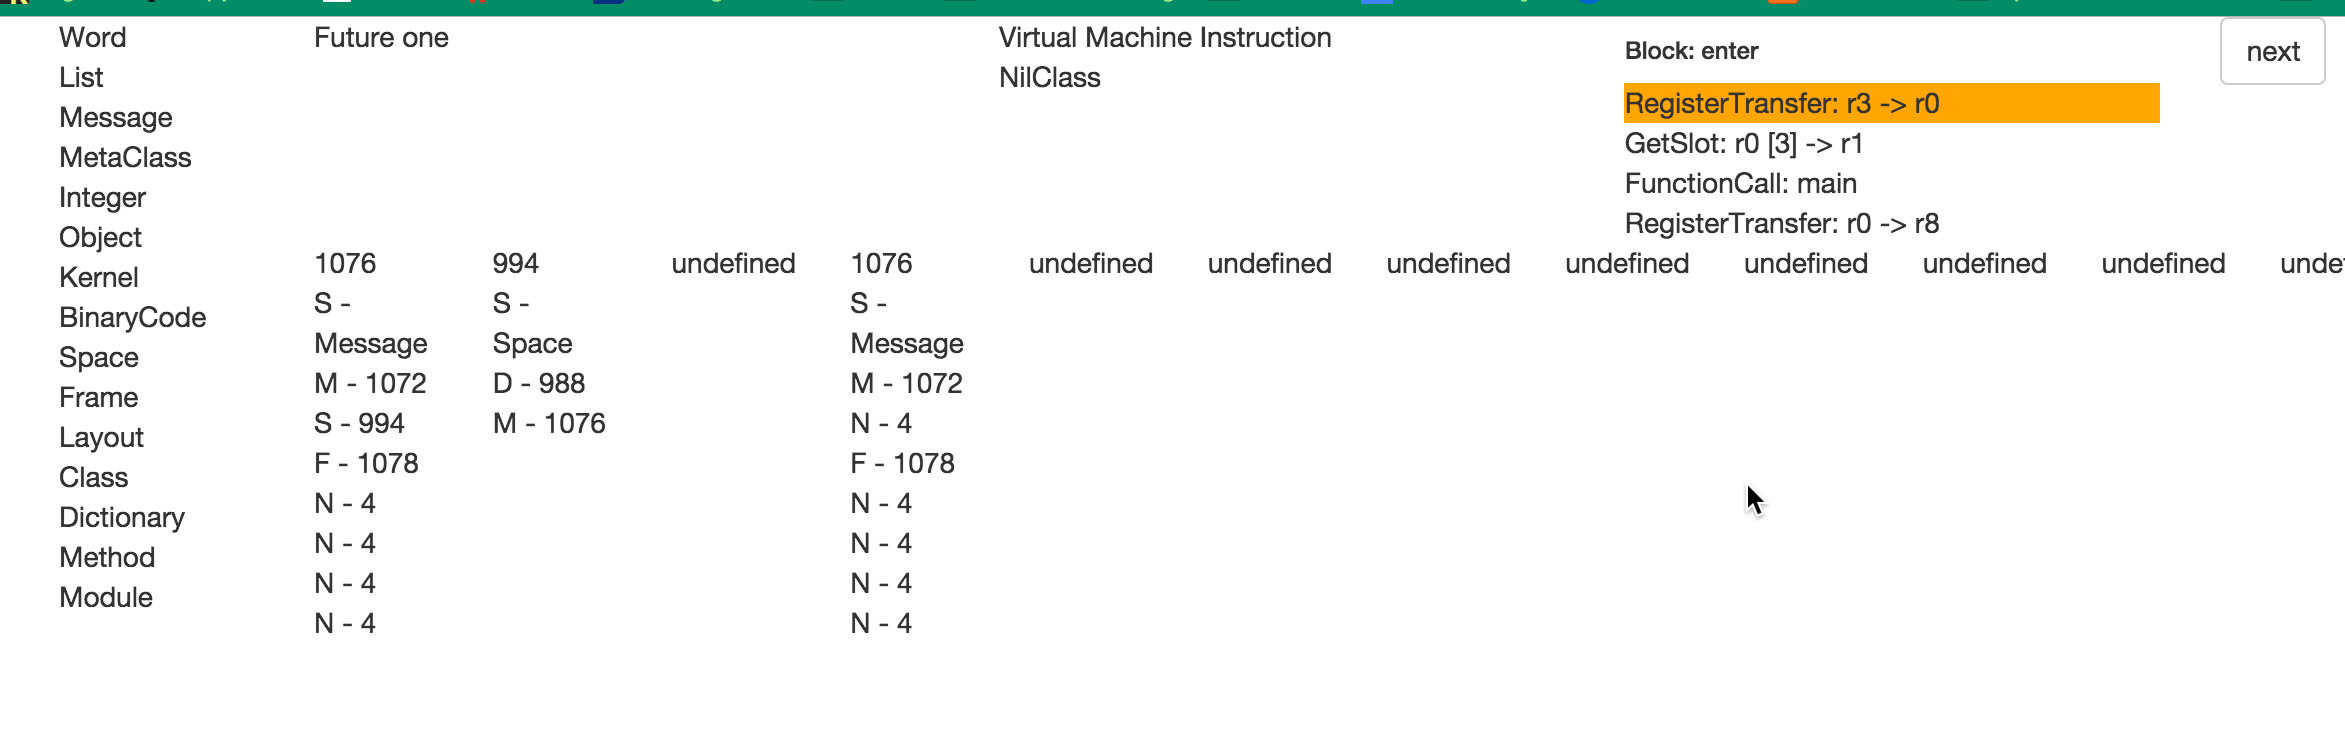
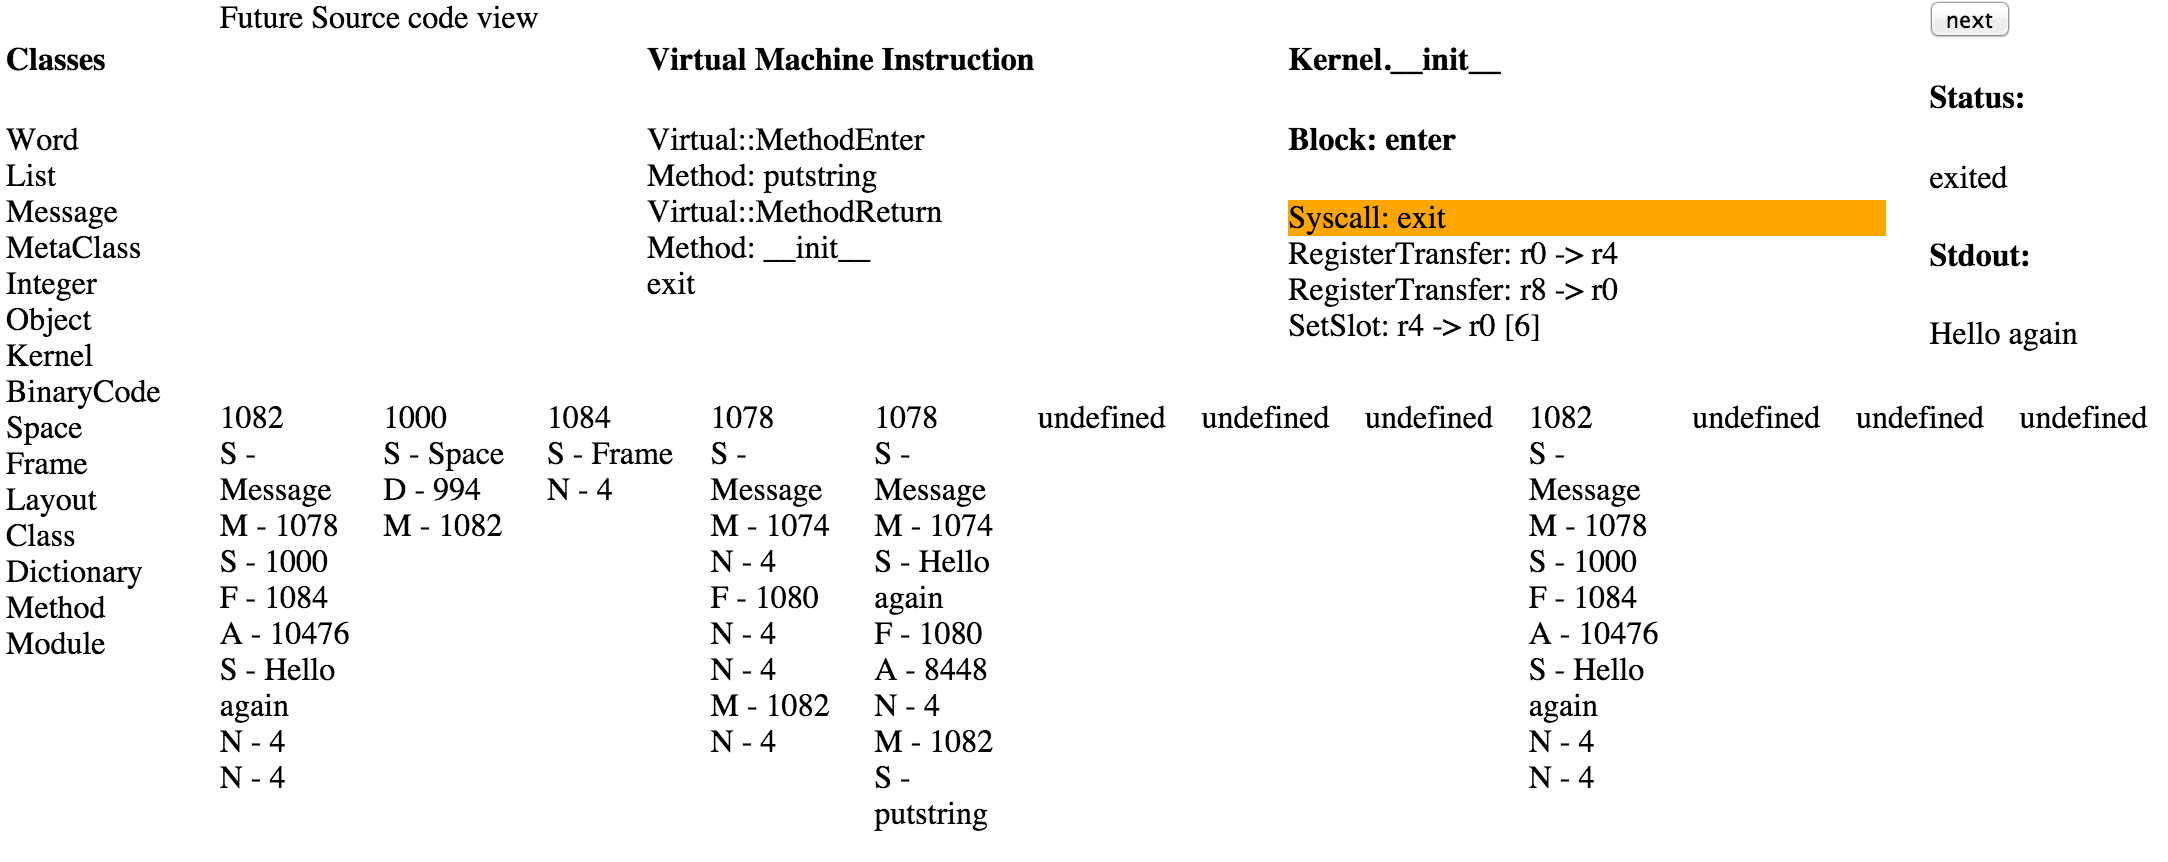
better docs, new pic

diff --git a/README.md b/README.md
@@ -4,12 +4,14 @@ After some tryouts it ended up being an Opal application. That is ruby as javasc
 
 ![Debugger](https://raw.githubusercontent.com/salama/salama-debugger/master/static/debugger.png)
 
-- On the left are the claases of the system. Next idea is to have hover info about them.
-- Middle is in three sections of source, only last really working
-- last section, current block with current instruction highlighted
+- On the left are the classes of the system. Next idea is to have hover info about them.
+- Next a source code view (not implemented)
+- next a view of the Virtual Instructions
+- last section, current block with current Register Instruction highlighted
 - step (next) button for single stepping
+- status: starting , running , exited
 - bottom row are the registers. If the register hold an object the variables are shown.
-    (also should have hoer info)
+    (also should have hover info) , the first letter indicates the class, the number is the address
 
 So lots to do, but a good start.
 
